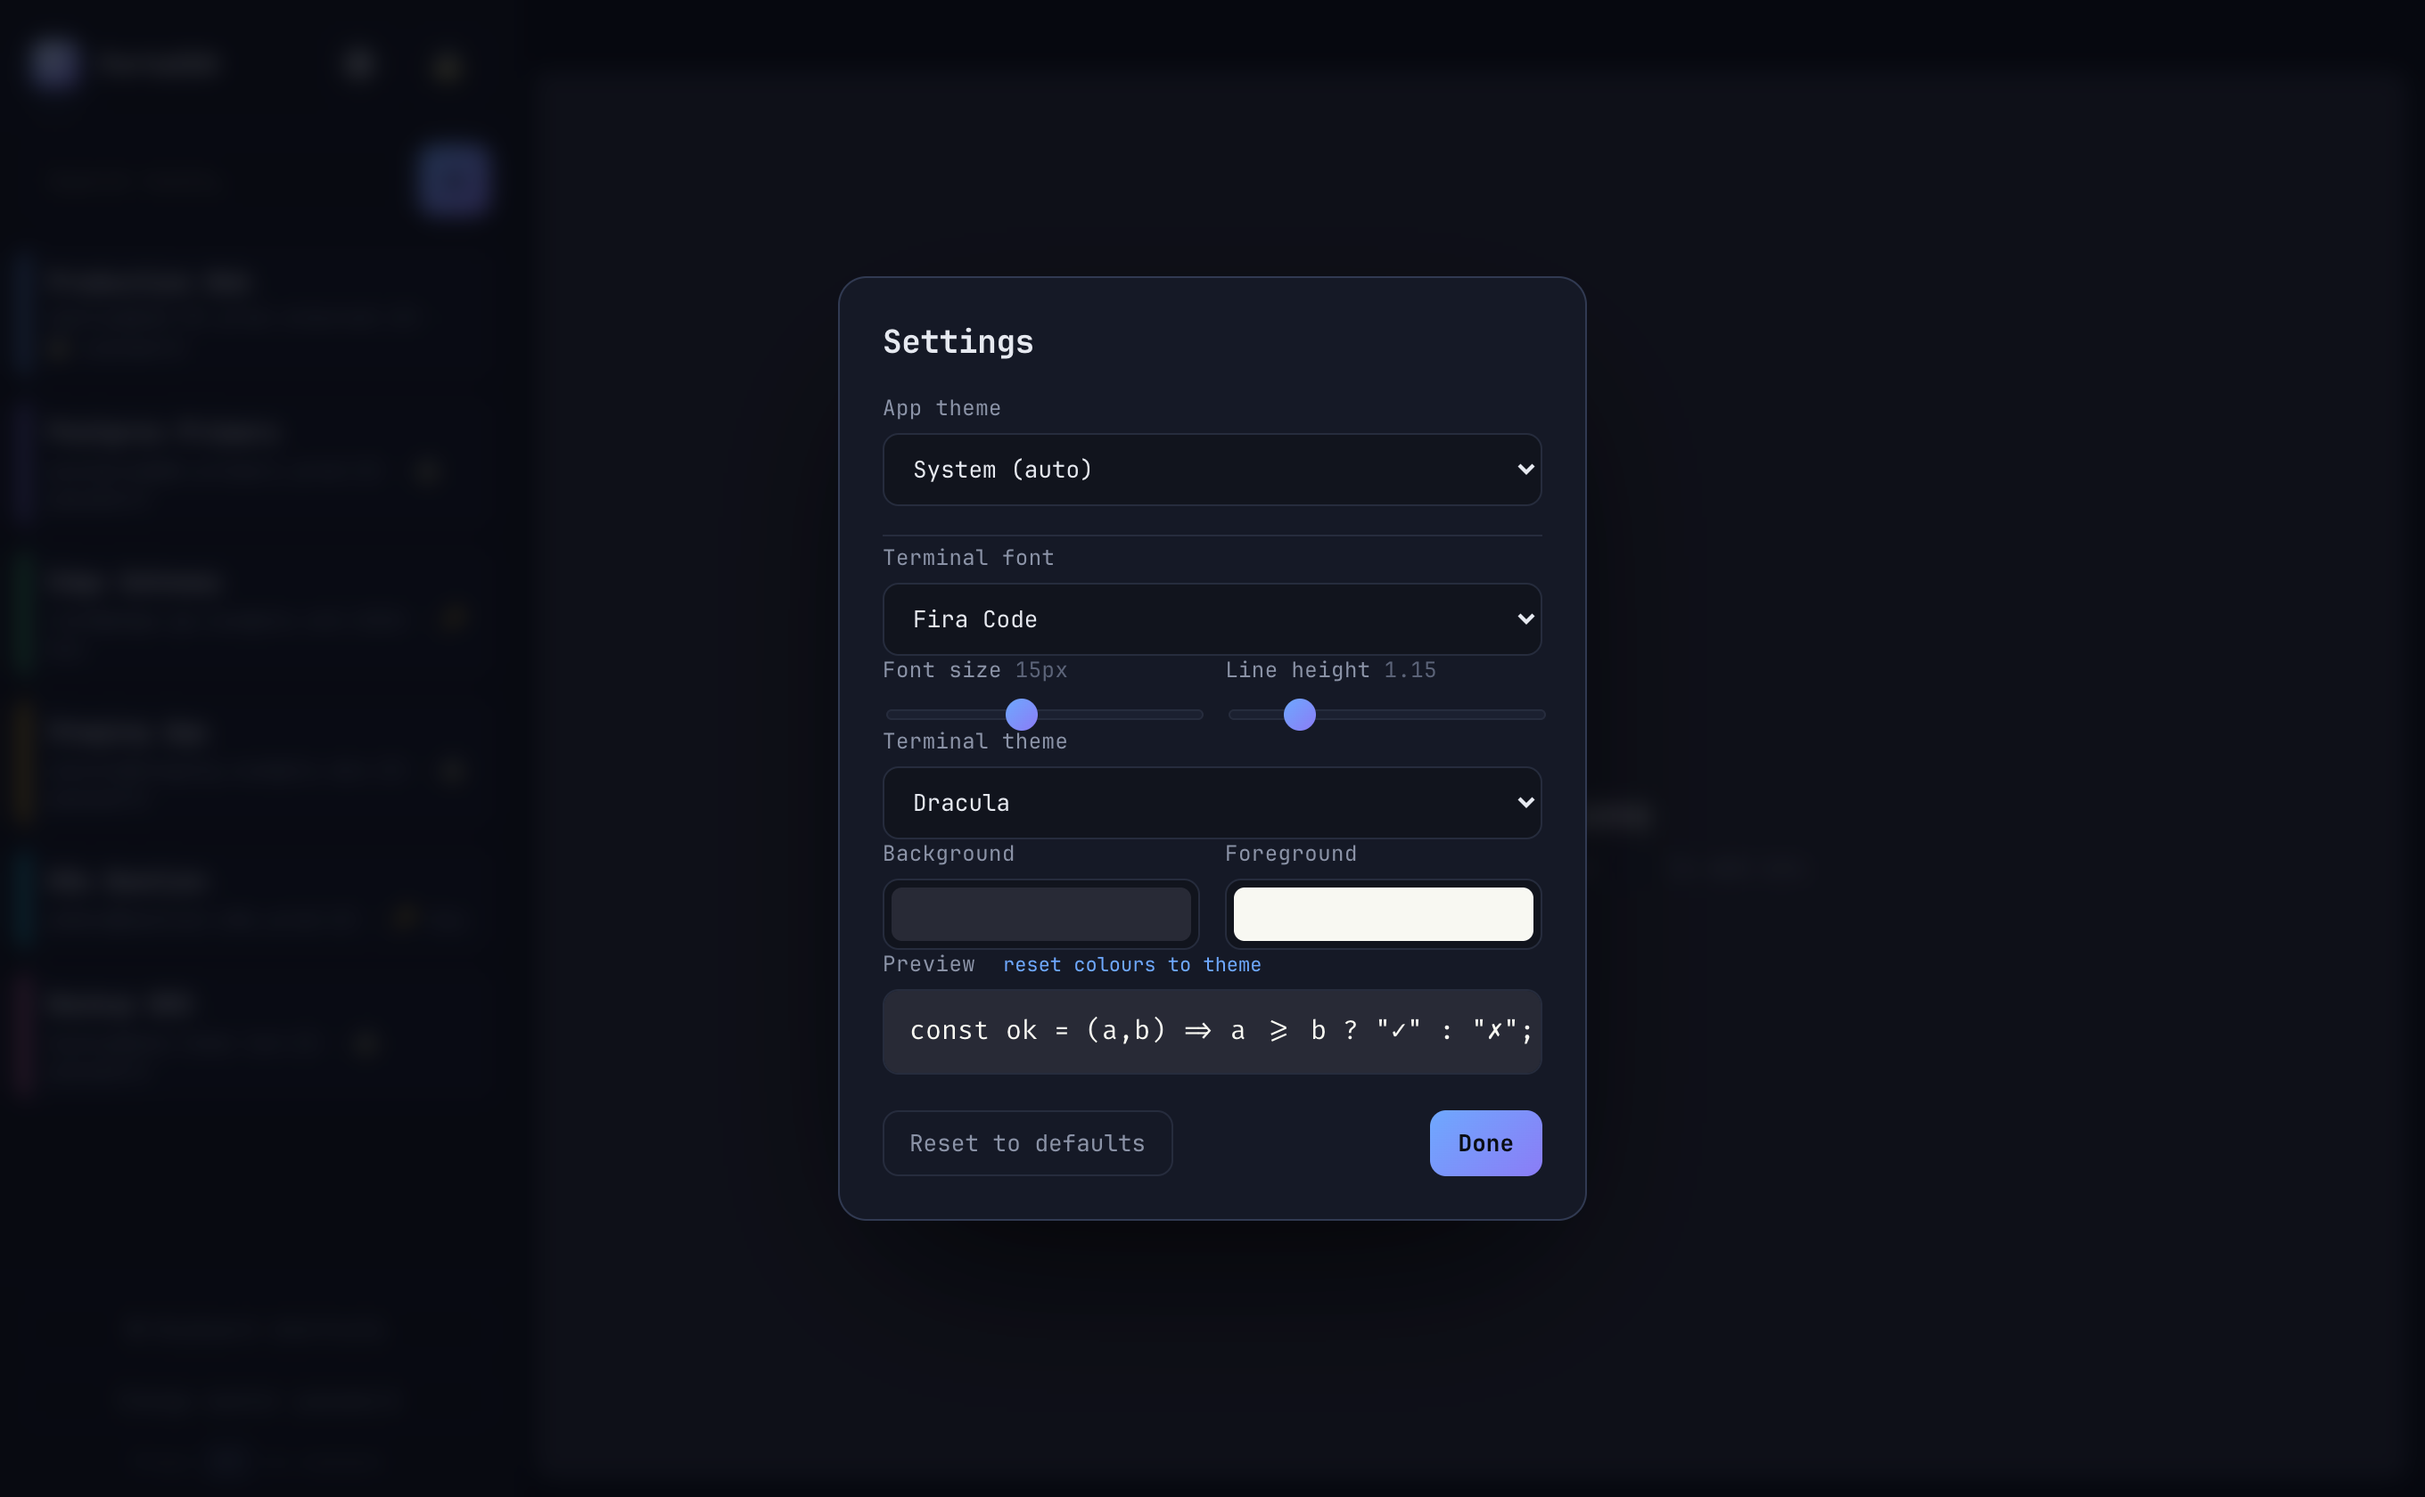
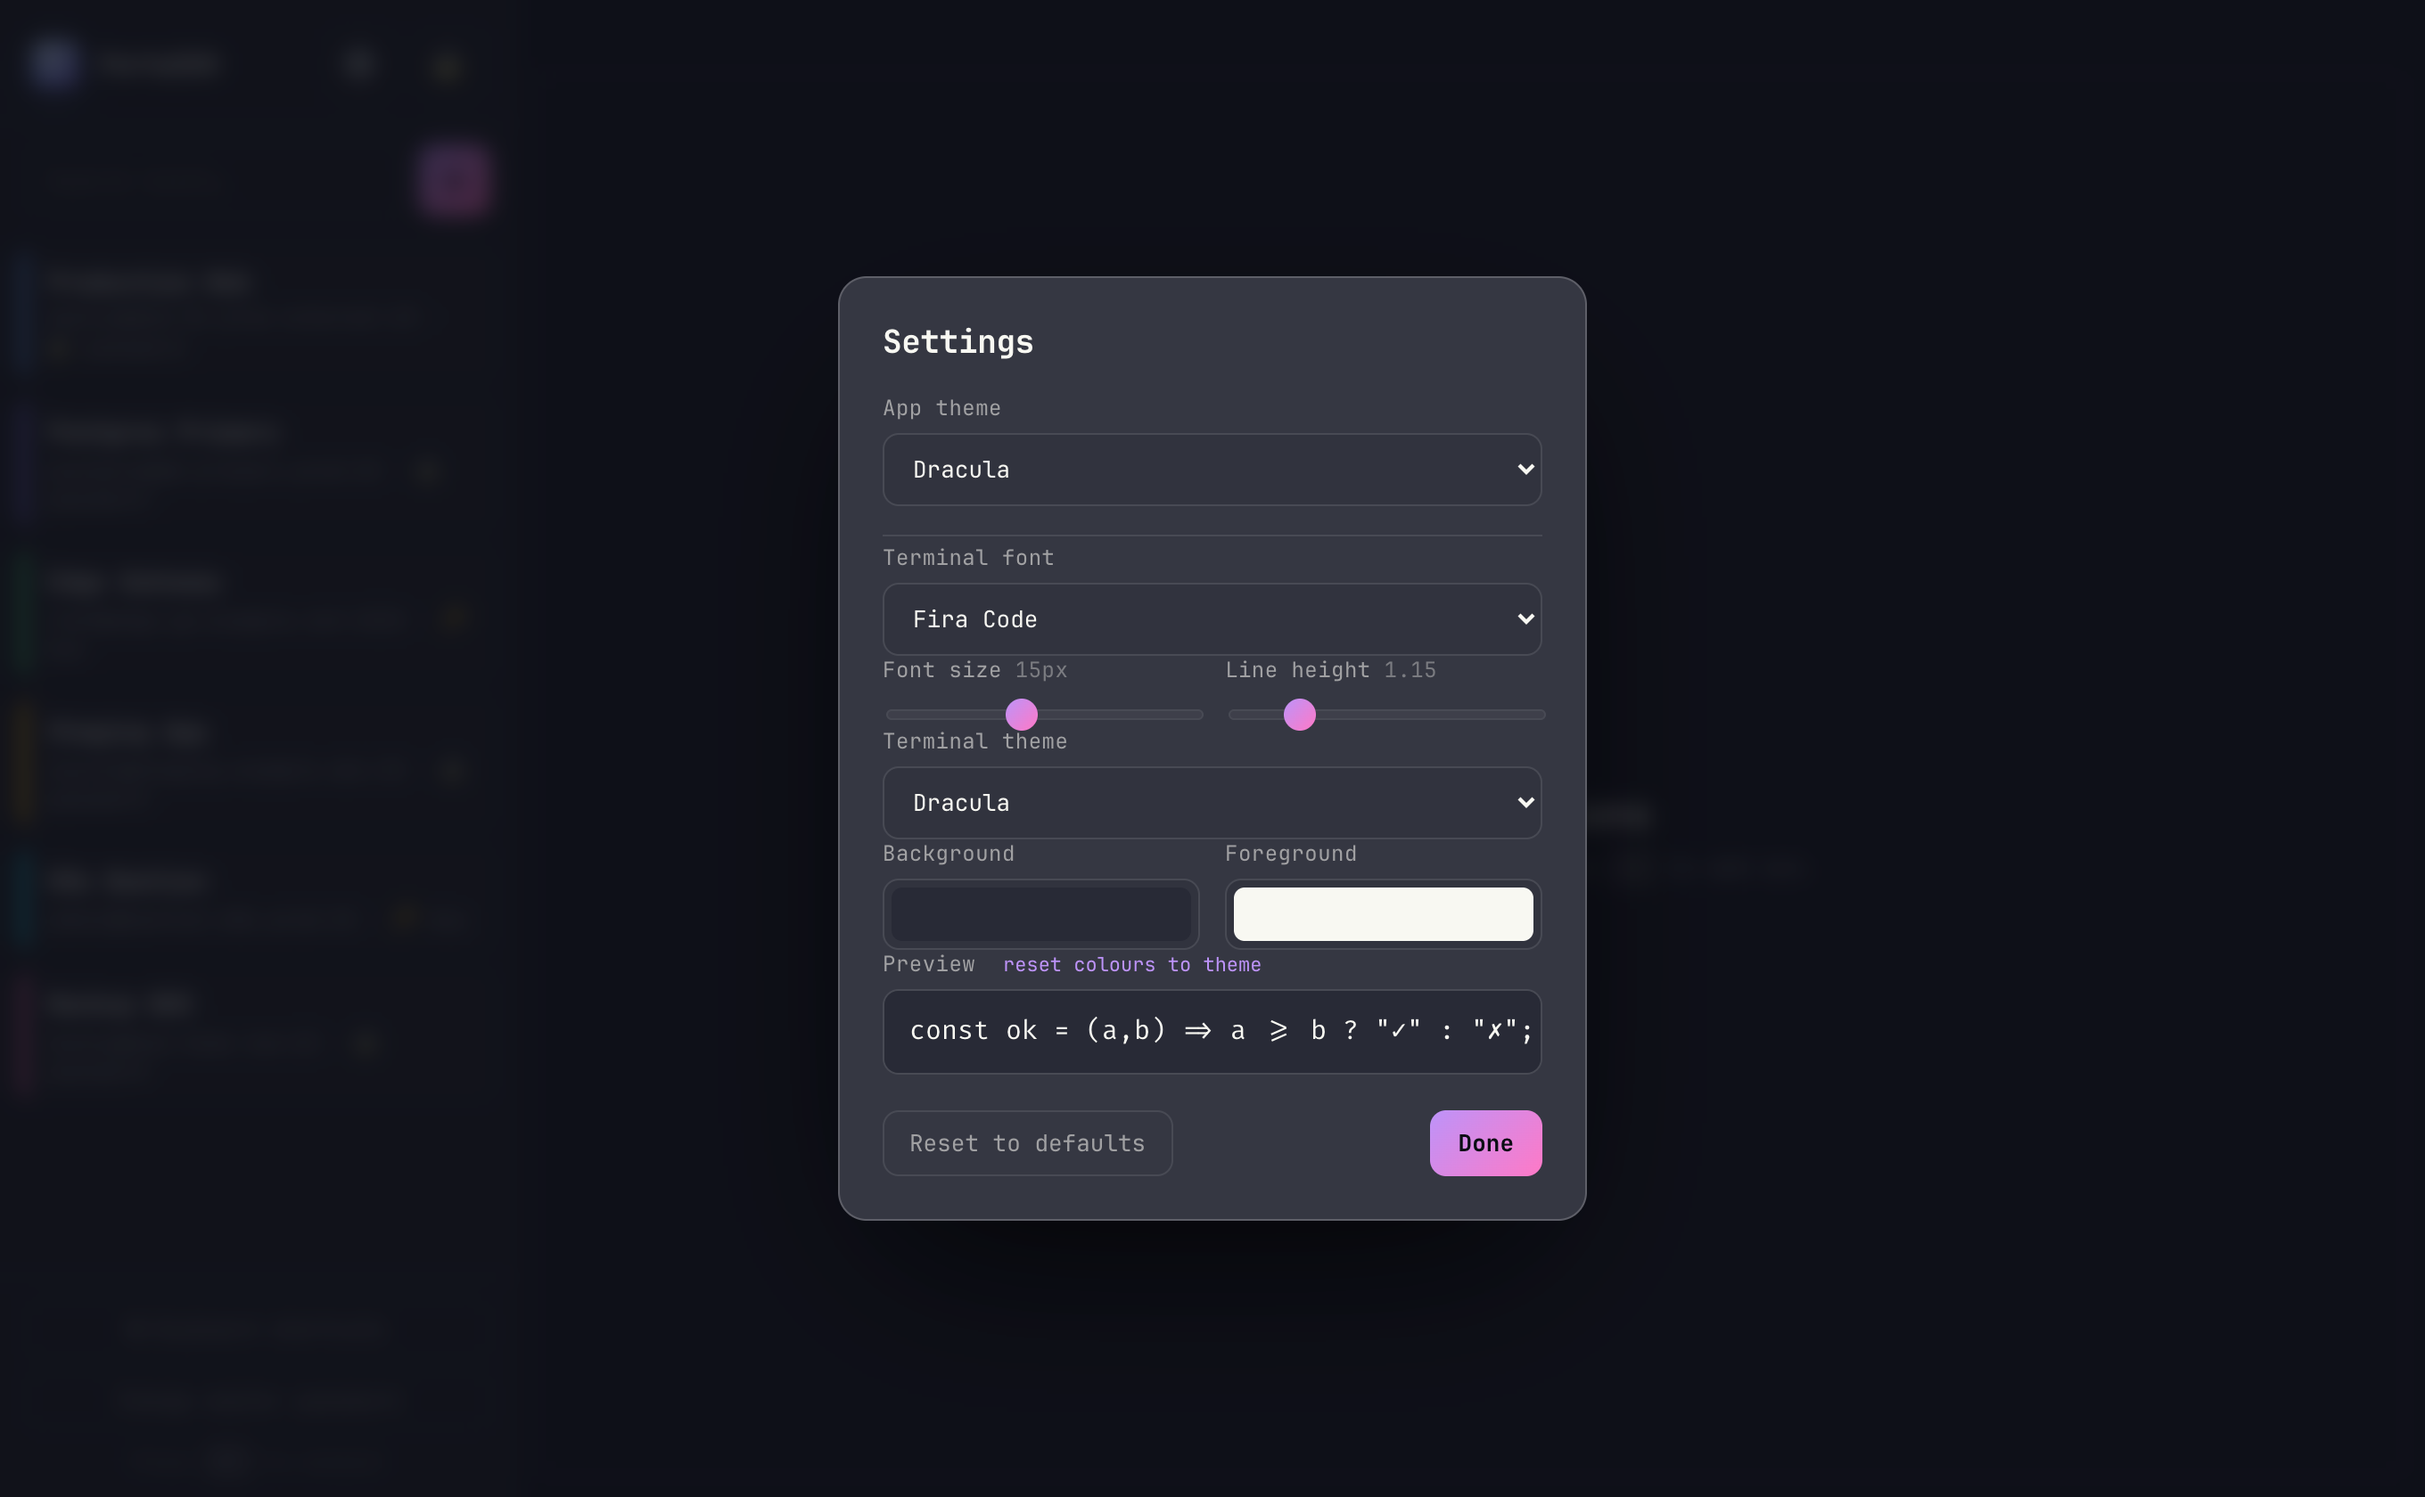
Default to Dracula, drop Light/Dark options, fix macOS window reuse
Theme:
- Make Dracula the standard app theme (new default in prefs).
- Remove the "Light" and "Dark" entries from the App theme selector; it
  now offers "System (auto)" plus the nine schemes. Dropped the orphaned
  ⌘\ toggle shortcut, its help row, and the palette "Toggle theme" item.

macOS launch:
- Launch the isolated Chrome via `open -n -a <bundle> --args …` instead
  of exec'ing the binary directly. Exec-ing while Chrome is already
  running made LaunchServices reuse the existing instance — opening a
  window in the user's default profile (breaking isolation) and causing
  dock clicks to spawn blank windows instead of the PortaSSH app window.
  `open -n` forces a separate, isolated instance.

Changed region(s): [[0.3438, 0.1857, 0.6562, 0.8357], [0.1875, 0.0929, 0.2188, 0.1548]]

diff --git a/internal/server/web/app.js b/internal/server/web/app.js
@@ -499,7 +499,7 @@ window.addEventListener("resize", () => {
    it on the stick. This object is the single source of truth.
    ============================================================ */
 const PREF_DEFAULTS = {
-  theme: "system",        // app light/dark: "system" | "light" | "dark"
+  theme: "dracula",       // app theme: "system" (follow OS) or a scheme id
   font: "jetbrains",
   fontSize: 13.5,
   lineHeight: 1.15,
@@ -553,11 +553,9 @@ function relLum(hex) {
 }
 function rgba(hex, a) { const [r, g, b] = hexToRgb(hex); return `rgba(${r},${g},${b},${a})`; }
 
-// App theme dropdown: built-ins first, then every terminal scheme reused.
+// App theme dropdown: "System (auto)" to follow the OS, then every scheme.
 const APP_THEME_LIST = [
   { id: "system", label: "System (auto)" },
-  { id: "light",  label: "Light" },
-  { id: "dark",   label: "Dark" },
 ].concat(TERM_THEME_LIST.filter((t) => t.id !== "auto"));
 
 // The UI variables an app scheme controls (so we can cleanly clear them).
@@ -626,13 +624,6 @@ function applyTheme() {
   }
 
   applyTerminal(); // "auto" terminal palette depends on the app theme
-}
-function cycleTheme() {
-  // Keyboard shortcut: cycle the built-ins; from a scheme, return to System.
-  const i = BUILTIN_THEMES.indexOf(themePref());
-  prefs.theme = BUILTIN_THEMES[(i + 1) % BUILTIN_THEMES.length];
-  savePrefs();
-  applyTheme();
 }
 function initTheme() {
   applyTheme();
@@ -810,7 +801,6 @@ const SHORTCUTS = [
   ["Jump to tab 1–9", kb(["⌘", "1…9"], ["Alt", "1…9"])],
   ["Close current tab", kb(["⌘", "⌫"], ["Ctrl", "⇧", "⌫"])],
   ["Lock vault", kb(["⌘", "L"], ["Ctrl", "⇧", "L"])],
-  ["Toggle theme", kb(["⌘", "\\"], ["Ctrl", "⇧", "\\"])],
   ["Settings", kb(["⌘", ","], ["Ctrl", "⇧", ","])],
   ["Show this help", kb(["⌘", "/"], ["F1"])],
 ];
@@ -845,7 +835,6 @@ function handleGlobalKey(e) {
   if (comboKey(e, "KeyK")) return fire(openPalette);
   if (comboKey(e, "KeyE")) return fire(() => openEditor(null));
   if (comboKey(e, "KeyL")) return fire(() => $("btn-lock").click());
-  if (comboKey(e, "Backslash")) return fire(cycleTheme);
   if (comboKey(e, "Comma")) return fire(openSettings);
   if (comboKey(e, "Slash") || e.code === "F1") return fire(openHelp);
   if (comboKey(e, "Backspace")) return fire(() => { if (state.activeTab) closeTab(state.activeTab); });
@@ -904,8 +893,7 @@ function buildPaletteItems(query) {
 
   const commands = [
     { kind: "command", icon: "＋", title: "New connection…", sub: "Add a saved host", run: () => { closePalette(); openEditor(null); } },
-    { kind: "command", icon: "🎨", title: "Toggle theme", sub: "System · Light · Dark", run: () => { cycleTheme(); } },
-    { kind: "command", icon: "⚙", title: "Settings", sub: "Terminal font, size, spacing", run: () => { closePalette(); openSettings(); } },
+    { kind: "command", icon: "⚙", title: "Settings", sub: "Theme, font, colours", run: () => { closePalette(); openSettings(); } },
     { kind: "command", icon: "🔒", title: "Lock vault", sub: "Wipe keys from memory", run: () => { closePalette(); $("btn-lock").click(); } },
     { kind: "command", icon: "⌨", title: "Keyboard shortcuts", sub: "", run: () => { closePalette(); openHelp(); } },
   ].filter((c) => match(c.title));

diff --git a/browser.go b/browser.go
@@ -6,6 +6,7 @@ import (
 	"os/exec"
 	"path/filepath"
 	"runtime"
+	"strings"
 )
 
 // launchIsolatedApp opens the PortaSSH UI in a Chromium-family browser running
@@ -43,13 +44,37 @@ func launchIsolatedApp(url, profileDir string) bool {
 		"--window-size=1200,820",
 	}
 
-	cmd := exec.Command(bin, args...)
+	var cmd *exec.Cmd
+	if runtime.GOOS == "darwin" {
+		// On macOS, exec'ing the Chrome binary directly while Chrome is already
+		// running makes LaunchServices reuse the *existing* instance — it opens a
+		// window in the user's default profile (breaking isolation) and later
+		// dock clicks spawn blank windows instead of returning to PortaSSH.
+		// `open -n` forces a brand-new, separate instance bound to our profile.
+		if bundle := macAppBundle(bin); bundle != "" {
+			cmd = exec.Command("open", append([]string{"-n", "-a", bundle, "--args"}, args...)...)
+		} else {
+			cmd = exec.Command(bin, args...)
+		}
+	} else {
+		cmd = exec.Command(bin, args...)
+	}
+
 	if err := cmd.Start(); err != nil {
 		log.Printf("PortaSSH: failed to launch isolated browser %q: %v", bin, err)
 		return false
 	}
 	log.Printf("PortaSSH: opened isolated (extension-free) window via %s", filepath.Base(bin))
 	return true
+}
+
+// macAppBundle derives the .app bundle path from a Chrome binary path, e.g.
+// "/Applications/Google Chrome.app/Contents/MacOS/Google Chrome" -> the .app.
+func macAppBundle(bin string) string {
+	if i := strings.Index(bin, ".app/"); i >= 0 {
+		return bin[:i+len(".app")]
+	}
+	return ""
 }
 
 // findChromium returns the path to the first available Chromium-family browser,

diff --git a/README.md b/README.md
@@ -45,17 +45,18 @@ Plug in the stick, run it, unlock with your master password, and you're home.
 - ⌨ **Keyboard-first workflow** — a **command palette** (`⌘K` / `Ctrl+Shift+K`)
   to fuzzy-search and connect, plus shortcuts for everything. Built for people
   who live in the terminal.
-- 🎨 **Beautiful, modern UI** — glassy dark theme, **light/dark that follows your
-  system** (with manual override), and a built-in shortcuts overlay.
+- 🎨 **Beautiful, modern UI** — ships in a polished **Dracula** theme by default,
+  with a *System (auto)* option that follows your OS, and a built-in shortcuts
+  overlay.
 - 🔤 **Seven bundled coding fonts** — JetBrains Mono, Fira Code, Cascadia Code,
   IBM Plex Mono, Source Code Pro, Roboto Mono, and system monospace — all
   embedded, all offline. Tune font, size, and line-height in **Settings**.
 - 🌈 **Terminal colour schemes** — nine popular presets (Dracula, Nord, One Dark,
   Monokai, Gruvbox, Solarized Dark/Light, Tomorrow Night, GitHub Light) plus
   custom **background / foreground** colour pickers.
-- 🖌 **Whole-app theming** — apply any of those schemes (or System / Light / Dark)
-  to the *entire* interface, not just the terminal. The UI palette is derived
-  live from the scheme, and the terminal follows along automatically.
+- 🖌 **Whole-app theming** — apply any of those schemes (or *System (auto)*) to
+  the *entire* interface, not just the terminal. The UI palette is derived live
+  from the scheme, and the terminal follows along automatically.
 - 💾 **Settings that persist** — all preferences are saved in a JSON file *next to
   the vault*, so they survive restarts and travel with the stick (not tied to the
   browser or the random port).
@@ -73,10 +74,10 @@ Plug in the stick, run it, unlock with your master password, and you're home.
 | <img src="assets/01-lock.png" width="420"> | <img src="assets/02-app-dark.png" width="420"> |
 | **Command palette** — connect in two keystrokes | **Settings** — fonts, themes & colours (live, persisted) |
 | <img src="assets/03-palette.png" width="420"> | <img src="assets/04-settings.png" width="420"> |
-| **Shortcuts overlay** — platform-aware | **Light mode** — follows your system |
+| **Shortcuts overlay** — platform-aware | **Light schemes too** — e.g. GitHub Light |
 | <img src="assets/05-shortcuts.png" width="420"> | <img src="assets/06-app-light.png" width="420"> |
 
-**Whole-app theming** — the entire UI recolours to any scheme (here: Dracula):
+**Whole-app theming** — the entire UI recolours to any scheme (here: Nord):
 
 <div align="center"><img src="assets/07-app-theme.png" alt="PortaSSH in Dracula theme" width="850"></div>
 
@@ -162,7 +163,6 @@ PortaSSH never steals keys your terminal needs.
 | Jump to tab 1–9 | `⌘1`…`⌘9` | `Alt+1`…`Alt+9` |
 | Close current tab | `⌘⌫` | `Ctrl+Shift+⌫` |
 | Lock vault | `⌘L` | `Ctrl+Shift+L` |
-| Toggle theme | `⌘\` | `Ctrl+Shift+\` |
 | Settings | `⌘,` | `Ctrl+Shift+,` |
 | Shortcuts help | `⌘/` | `F1` |
 
